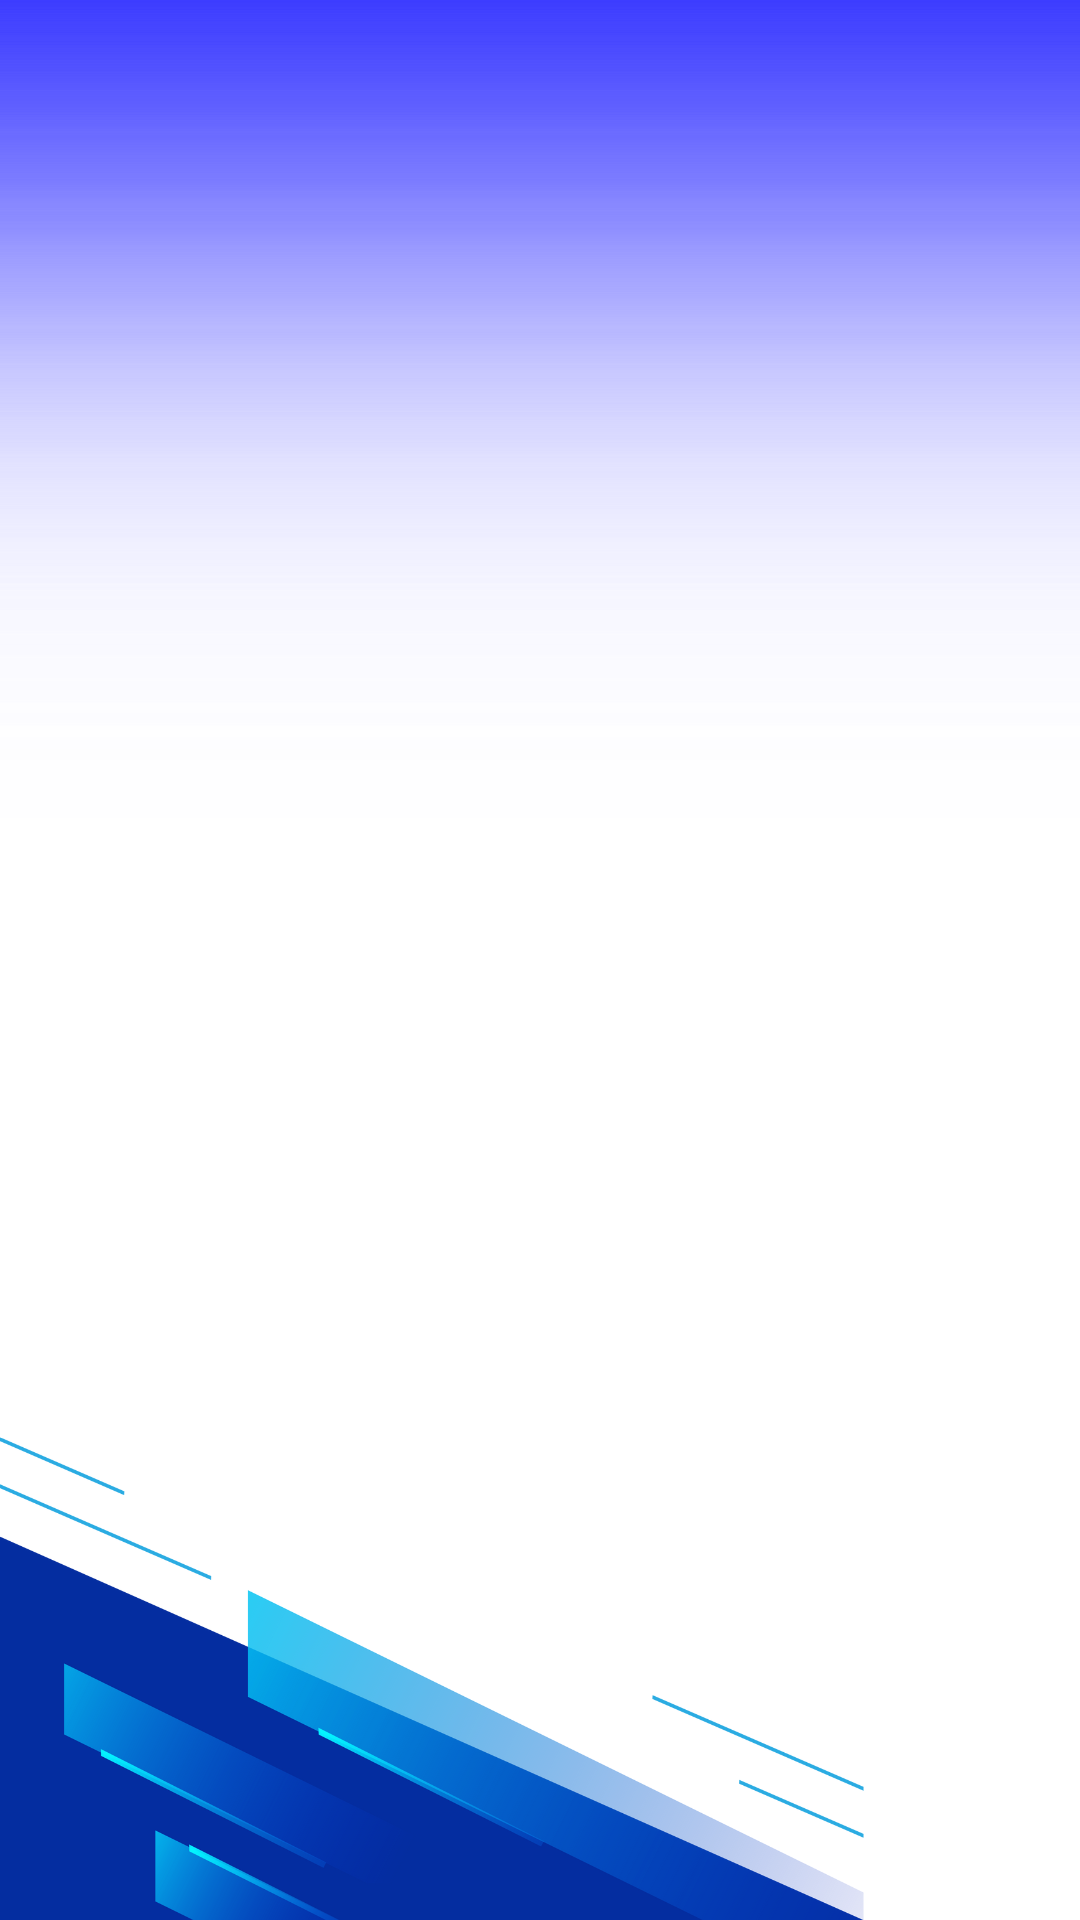
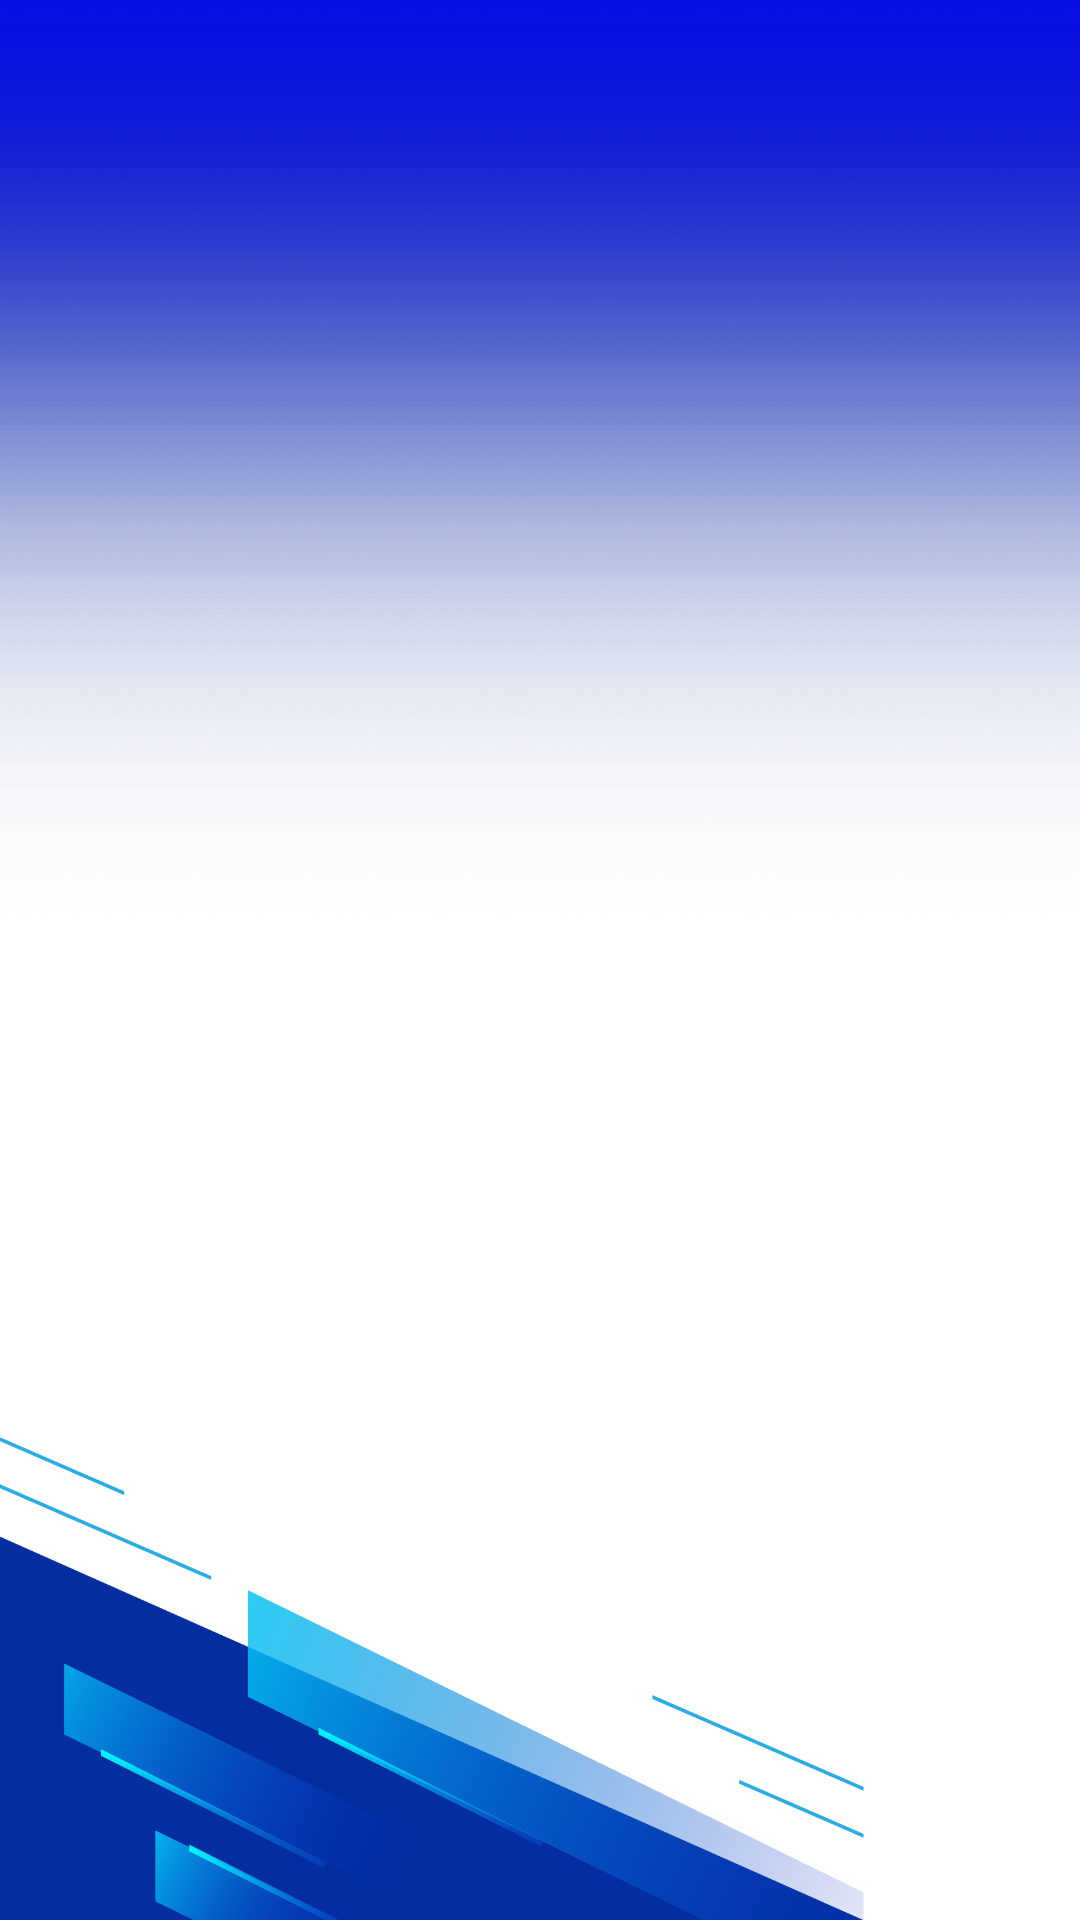
gastoscombustivel

diff --git a/App.js b/App.js
@@ -2,6 +2,8 @@ import { StatusBar } from 'expo-status-bar';
 import { StyleSheet, Text, View, Pressable, TextInput, ImageBackground } from 'react-native';
 import { useCallback, useState } from 'react';
 
+import fundo from './assets/fundo.png';
+
 export default function App() {
   const [litro, setLitro] = useState('');
   const [quantabastecida, setQuantabastecida] = useState('');
@@ -24,20 +26,19 @@ export default function App() {
   };
 
   return (
-    <View style={styles.container}>
-      <ImageBackground>
+  <ImageBackground  source={fundo} resizeMode="cover" style={styles.container}>
       <Text style={styles.titulo}>Autonomia do Ganho de Combustível</Text>
       <View>
         <Text style={styles.valores}>Valor do litro</Text>
-        <TextInput value={litro} onChangeText={setLitro} style={styles.caixa}/>
+        <TextInput value={litro} onChangeText={setLitro} style={styles.caixa} placeholder='Insira o Valor do Litro' keyboardType="number-pad"/>
       </View>
       <View>
         <Text style={styles.valores}>Quantidade Abastecida</Text>
-        <TextInput value={quantabastecida} onChangeText={setQuantabastecida} style={styles.caixa}/>
+        <TextInput value={quantabastecida} onChangeText={setQuantabastecida} style={styles.caixa} placeholder='Insira a Quantidade Abastecida' keyboardType="number-pad"/>
       </View>
       <View>
         <Text style={styles.valores}>Km Rodados</Text>
-        <TextInput value={kmrodados} onChangeText={setKmrodados} style={styles.caixa}/>
+        <TextInput value={kmrodados} onChangeText={setKmrodados} style={styles.caixa} placeholder='Insira os Km Rodados' keyboardType="number-pad"/>
       </View>
       <View>
         <Text>{" "}</Text>
@@ -55,8 +56,7 @@ export default function App() {
       <Text>{" "}</Text>
         <Text style={styles.caixresult}>{resultado}</Text>
       </View>
-      </ImageBackground>
-    </View>
+    </ImageBackground>
   );
 }
 
@@ -75,32 +75,54 @@ const styles = StyleSheet.create({
     alignSelf:'center',
     textAlign:'center',
     paddingBottom:20,
-    color:"#665c49",
+    color:"#042EA2",
+    fontWeight:"bold"
   },
   valores:{
     fontSize:20,
-    textAlign:'left',
-    color:"#665c49",
+    textAlign:"center",
+    justifyContent:"center",
+    alignItems:"center",
+    color:"#042EA2",
+    fontWeight:"bold",
   },
   caixa:{
     borderWidth:1,
     borderRadius:15,
-    borderColor:"#a69785",
+    width:250,
+    height:50,
+    borderColor:"#042EA2",
+    alignItems:"center",
+    justifyContent:"center",
+    textAlign:"center",
   },
   calcul:{
     fontSize:20,
     textAlign:'center',
-    backgroundColor:"#807462",
-    width:150,
-    height:30,
+    backgroundColor:"#042EA2",
+    width:200,
+    height:40,
     borderRadius:30,
     color:"white",
     alignItems:"center",
     textAlign:"center",
     justifyContent:"center",
+    alignSelf:"center",
+    borderColor:"#042EA2",
+    borderWidth:1,
+    fontWeight:"bold",
+    paddingTop:5,
   },
   caixresult:{
     borderWidth:2,
-    borderColor:'#665c49',
+    borderColor:'#042EA2',
+    color:"#042EA2",
+    width:50,
+    height:30,
+    alignItems:"center",
+    textAlign:"center",
+    justifyContent:"center",
+    alignSelf:"center",
+    paddingTop:5,
   }
 });
